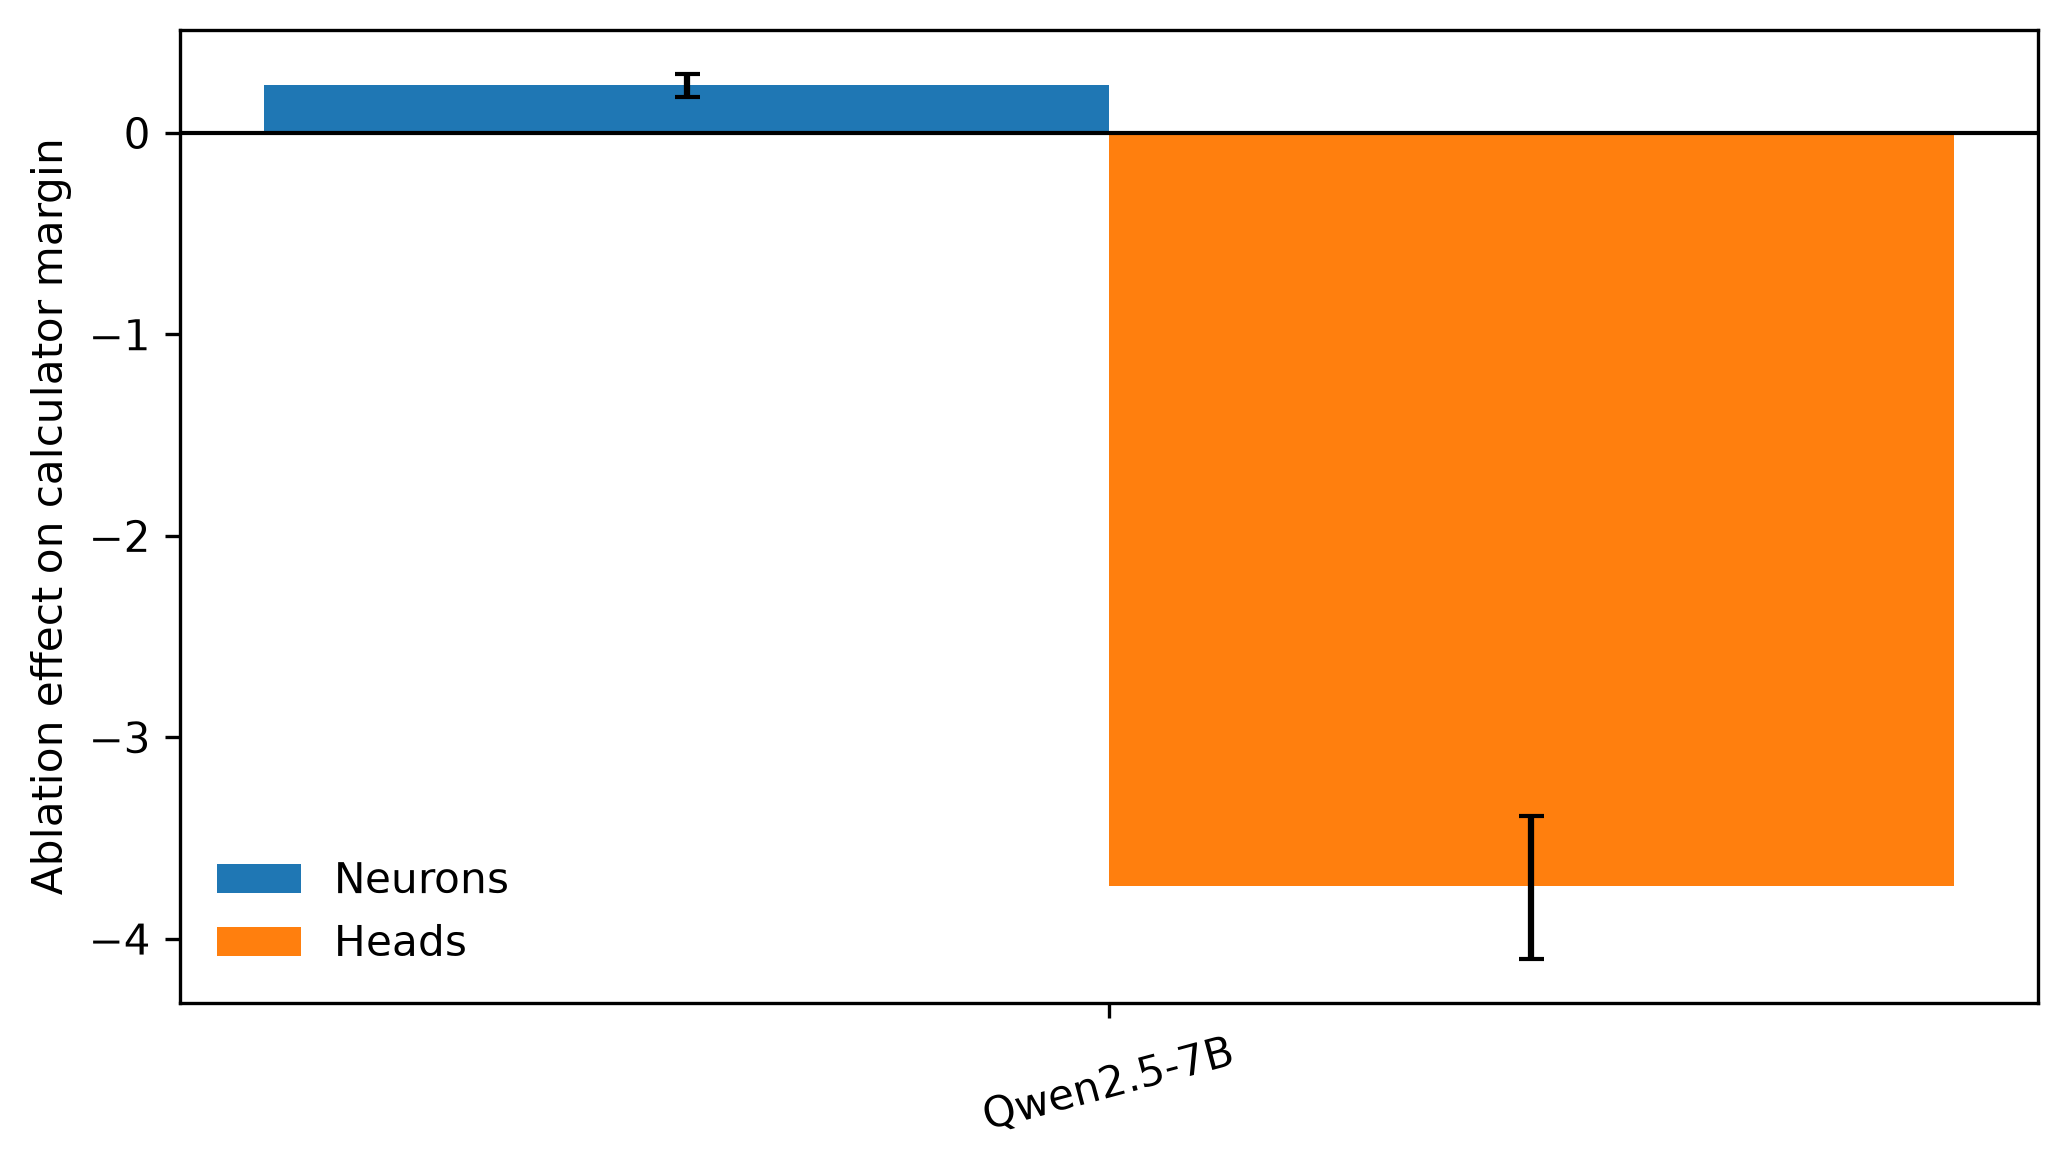
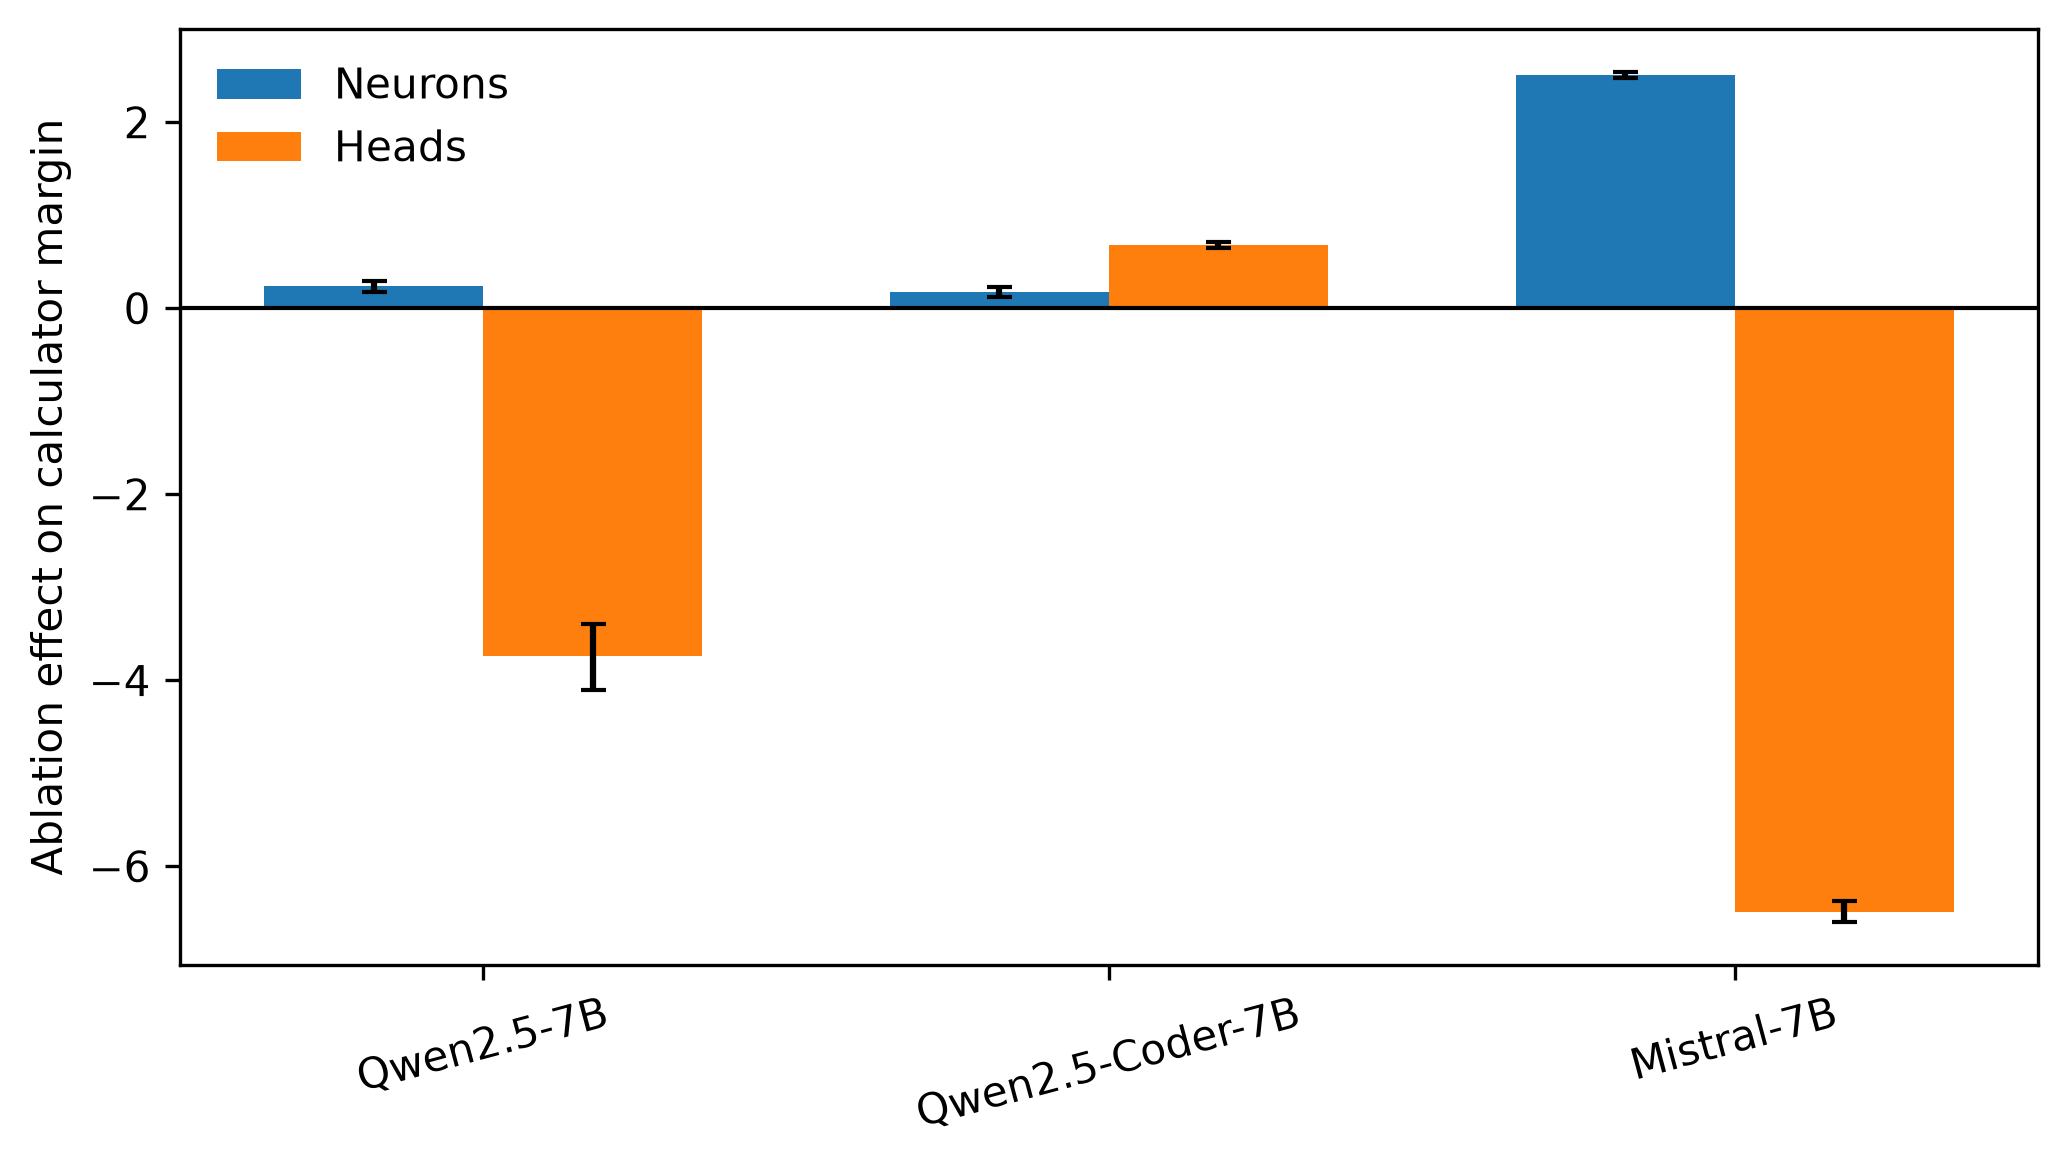
Complete local Mistral component checkpoint

diff --git a/PENDING_TASKS.md b/PENDING_TASKS.md
@@ -74,13 +74,14 @@ expected output exists and has been inspected.
   - Focus: calculator versus Python decisions.
   - Checkpoint: compare Python-tool bias against general Qwen2.5-7B.
 
-- [ ] **LOCAL** Run Mistral-7B-Instruct-v0.3 component ablations and refresh
+- [x] **LOCAL** Run Mistral-7B-Instruct-v0.3 component ablations and refresh
   the local report.
   - Done: behavior, lexical-control probes, directions, and summary.
   - Note: controlled calculator-to-Python patching is not applicable because
     the OOD targets contain no calculator-to-Python errors for Mistral.
-  - Checkpoint: determine whether component ablation gives usable
-    cross-family evidence on this GPU.
+  - Checkpoint: component ablations completed; head ablation gives strong
+    cross-family causal evidence, while neuron ablation increases the
+    calculator margin rather than suppressing it.
 
 ## Pending: Large-GPU Replication
 

diff --git a/RESULTS_LEDGER.md b/RESULTS_LEDGER.md
@@ -39,6 +39,12 @@ controls or replication.
 - Mistral lexical-control behavior is weak: accuracy 0.365, macro-F1 0.369,
   and 206/400 invalid outputs. Its residual probe still reaches macro-F1 1.0
   at layer 16, and the MLP-output probe reaches macro-F1 1.0 at layer 15.
+- Mistral component ablation gives mixed but useful cross-family evidence.
+  Top-ranked calculator heads strongly reduce the calculator margin
+  (mean effect -6.492, 95% CI [-6.604, -6.375], random-control mean -0.353,
+  paired permutation p = 0.00001). Top-ranked calculator neurons instead
+  increase the calculator margin (mean effect 2.512, 95% CI [2.479, 2.545],
+  random-control mean 0.005, paired permutation p = 0.00001).
 - A residual probe trained on the original training templates and evaluated on
   256 balanced lexical-control prompts reaches its best macro-F1 of 0.905 at
   layer 27. Layer 0 is at 0.100, the first-five-layer mean is 0.451, and the